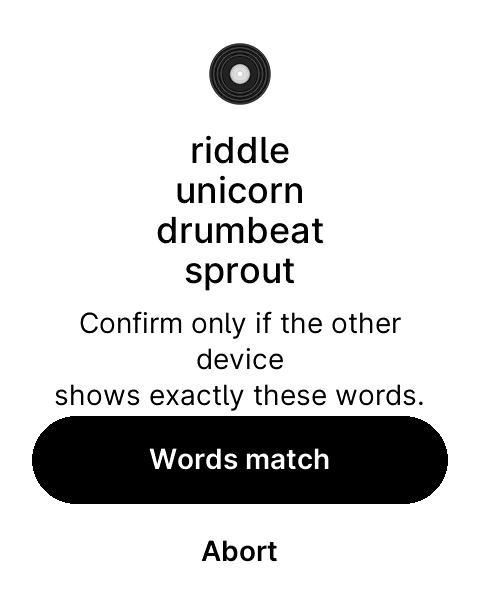
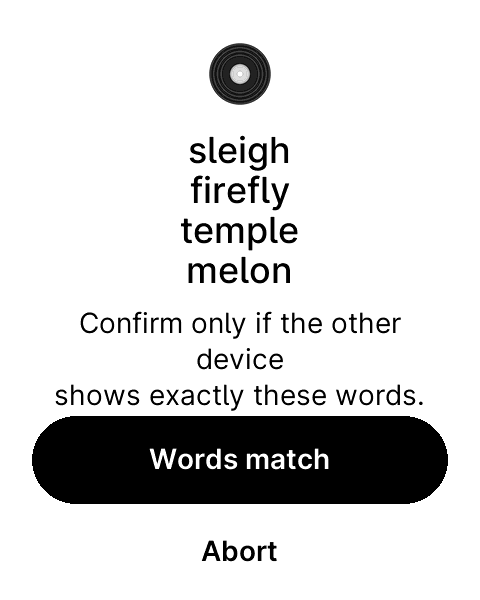
Runtime-bitmap go/no-go: PASSES (ART_TEST INS 0x61)
NbglGlyph has public fields and a const runtime constructor: a heap buffer
computed on device renders in a card. Uploaded cover art is feasible; note
the 4bpp nibble order is mirrored vs naive packing (fix at generation).

Changed region(s): [[0.3125, 0.21, 0.6875, 0.48]]

diff --git a/device-app/src/handlers/collection.rs b/device-app/src/handlers/collection.rs
@@ -142,3 +142,46 @@ pub fn handler_collection(command: Command<'_>) -> Result<CommandResponse<'_>, A
     let response = command.into_response();
     Ok(response)
 }
+
+/// ART_TEST: go/no-go prototype for runtime bitmaps. Renders a 96x96 4bpp
+/// image computed on the fly (rings + asymmetric corner marker to reveal the
+/// nibble order) inside an album card. If this displays, uploaded cover art
+/// is feasible.
+#[cfg(any(target_os = "stax", target_os = "flex"))]
+pub fn handler_art_test(command: Command<'_>) -> Result<CommandResponse<'_>, AppSW> {
+    const W: usize = 96;
+    let mut bitmap = alloc::vec![0u8; W * W / 2];
+    for y in 0..W {
+        for x in 0..W {
+            let dx = x as i32 - 48;
+            let dy = y as i32 - 48;
+            let d2 = dx * dx + dy * dy;
+            // Concentric rings, plus a solid dark square in the top-left
+            // corner to detect flipped nibble/byte order at a glance.
+            let mut shade: u8 = if d2 < 46 * 46 { ((d2 / 300) % 16) as u8 } else { 15 };
+            if x < 16 && y < 16 {
+                shade = 0;
+            }
+            let idx = (y * W + x) / 2;
+            if x % 2 == 0 {
+                bitmap[idx] = (bitmap[idx] & 0x0F) | (shade << 4);
+            } else {
+                bitmap[idx] = (bitmap[idx] & 0xF0) | shade;
+            }
+        }
+    }
+    let glyph = ledger_device_sdk::nbgl::NbglGlyph::new(&bitmap, W as u16, W as u16, 4, false);
+    NbglGenericReview::new()
+        .add_content(NbglPageContent::CenteredInfo(CenteredInfo::new(
+            "Runtime art",
+            "computed on device",
+            "not a compiled glyph",
+            Some(&glyph),
+            false,
+            CenteredInfoStyle::LargeCaseBoldInfo,
+            0,
+        )))
+        .show_from_callback("Back");
+    let response = command.into_response();
+    Ok(response)
+}

diff --git a/device-app/src/main.rs b/device-app/src/main.rs
@@ -79,6 +79,7 @@ impl From<io::CommError> for AppSW {
 pub enum Instruction {
     GetInfo,
     Collection,
+    ArtTest,
     Cut,
     PairCommit,
     PairRespond,
@@ -102,6 +103,7 @@ impl TryFrom<ApduHeader> for Instruction {
         match (value.ins, value.p1, value.p2) {
             (0x01, 0, 0) => Ok(Instruction::GetInfo),
             (0x02, 0, 0) => Ok(Instruction::Collection),
+            (0x61, 0, 0) => Ok(Instruction::ArtTest),
             (0x10, 0, 0) => Ok(Instruction::Cut),
             (0x21, 0, 0) => Ok(Instruction::PairCommit),
             (0x22, 0, 0) => Ok(Instruction::PairRespond),
@@ -116,7 +118,7 @@ impl TryFrom<ApduHeader> for Instruction {
             (0x40, part @ (0 | 1), 0) => Ok(Instruction::GetBundle { part }),
             (0x41, 0, 0) => Ok(Instruction::Challenge),
             (0x50, 0, 0) => Ok(Instruction::ResetMaster),
-            (0x01 | 0x02 | 0x10 | 0x21..=0x25 | 0x30..=0x34 | 0x40 | 0x41 | 0x50, _, _) => {
+            (0x01 | 0x02 | 0x10 | 0x21..=0x25 | 0x30..=0x34 | 0x40 | 0x41 | 0x50 | 0x61, _, _) => {
                 Err(AppSW::WrongP1P2)
             }
             (_, _, _) => Err(AppSW::InsNotSupported),
@@ -158,6 +160,7 @@ extern "C" fn sample_main(_arg0: u32) {
             ins,
             Instruction::Cut
                 | Instruction::Collection
+                | Instruction::ArtTest
                 | Instruction::PairSas
                 | Instruction::PressOffer
                 | Instruction::PressAccept
@@ -181,6 +184,7 @@ fn handle_apdu<'a>(
     match ins {
         Instruction::GetInfo => handlers::info::handler_get_info(command),
         Instruction::Collection => handlers::collection::handler_collection(command),
+        Instruction::ArtTest => handlers::collection::handler_art_test(command),
         Instruction::Cut => handlers::cut::handler_cut(command),
         Instruction::ResetMaster => handlers::cut::handler_reset_master(command),
         Instruction::PairCommit => handlers::pair::handler_commit(command, session),